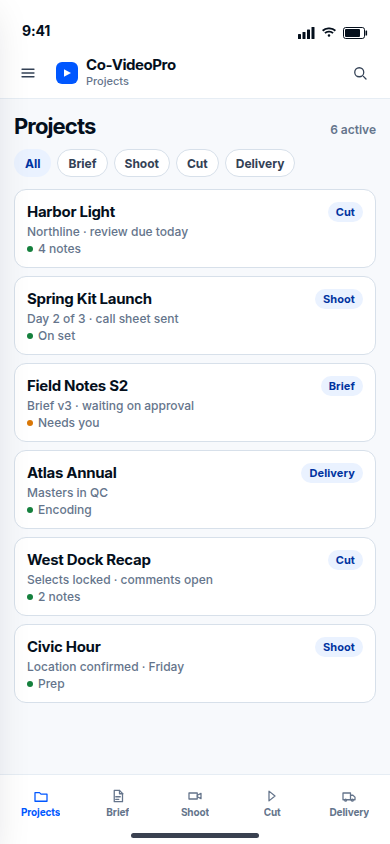
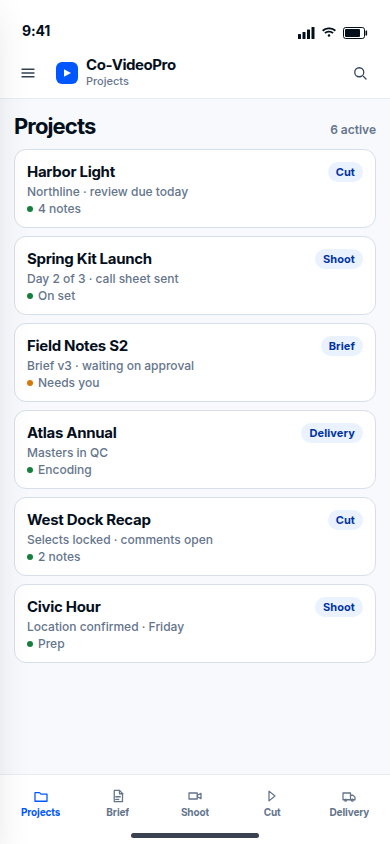
Judge the nav against Bailey's production OS intent.
Reject stage-tab inboxes and a comment dock under the film. Keep the live player overlay, hide the phone rail on the film, and leave the master unlanded.

diff --git a/mocks/cvp-phone-nav-grok47/master-phone-player.html b/mocks/cvp-phone-nav-grok47/master-phone-player.html
@@ -17,15 +17,12 @@
         <div class="film-top">
           <button type="button" aria-label="Back to Harbor Light Cut">‹ Harbor Light · Cut</button>
         </div>
-        <div class="stage-fill" role="img" aria-label="Review frame">
-          <span class="tap">Tap the frame to comment · 00:12</span>
-        </div>
-        <div class="transport" aria-label="Player">
-          <button class="play" type="button" aria-label="Play">
-            <svg width="11" height="11" viewBox="0 0 12 12"><path d="M3 1.6 10.2 6 3 10.4z" fill="#fff"/></svg>
-          </button>
-          <span class="track" aria-hidden="true"><i></i></span>
-          <span>00:12 / 02:40</span>
+        <div class="stage-fill" role="img" aria-label="Live thin player, unchanged">
+          <span class="tap">Live thin overlay stays. Tap the frame.</span>
+          <div class="comment-dialog" role="dialog" aria-label="Comment at the playhead">
+            <strong>00:12</strong>
+            <span>Comment at the playhead. No dock under the film.</span>
+          </div>
         </div>
       </div>
     </article>

diff --git a/mocks/cvp-phone-nav-grok47/master-phone-projects.html b/mocks/cvp-phone-nav-grok47/master-phone-projects.html
@@ -9,15 +9,5 @@
 <body class="shot">
   <main class="stage"><div data-phone="closed"></div></main>
   <script src="./phone.js"></script>
-  <script>
-    const list = document.querySelector(".list");
-    const head = list.querySelector(".list-head");
-    const chips = document.createElement("div");
-    chips.className = "chips";
-    chips.setAttribute("aria-label", "Filter projects by stage");
-    chips.innerHTML = ["All","Brief","Shoot","Cut","Delivery"].map((name, i) =>
-      `<button type="button" ${i === 0 ? 'aria-pressed="true"' : 'aria-pressed="false"'}>${name}</button>`).join("");
-    head.after(chips);
-  </script>
 </body>
 </html>

diff --git a/mocks/cvp-phone-nav-grok47/master.css b/mocks/cvp-phone-nav-grok47/master.css
@@ -72,6 +72,34 @@
   font-weight: 600;
 }
 
+.film { grid-template-rows: 47px 48px 1fr; }
+
+.comment-dialog {
+  position: absolute;
+  left: 16px;
+  top: 18px;
+  width: min(240px, 70%);
+  padding: 10px 12px;
+  border-radius: 10px;
+  background: #fff;
+  color: var(--ink);
+  box-shadow: 0 8px 24px rgb(4 15 28 / 0.28);
+}
+
+.comment-dialog strong {
+  display: block;
+  color: var(--blue);
+  font-size: 12px;
+}
+
+.comment-dialog span {
+  display: block;
+  margin-top: 2px;
+  color: var(--soft);
+  font-size: 12px;
+  line-height: 1.35;
+}
+
 .transport {
   display: flex;
   align-items: center;

diff --git a/mocks/cvp-phone-nav-grok47/master-desktop-project.html b/mocks/cvp-phone-nav-grok47/master-desktop-project.html
@@ -9,5 +9,14 @@
 <body class="shot">
   <main class="desk-stage"><div data-desk="project"></div></main>
   <script src="./desktop.js"></script>
+  <script>
+    const player = document.querySelector(".player");
+    if (player) {
+      player.querySelector("b").textContent = "Live thin overlay";
+      player.querySelector("span").textContent = "Unchanged. Dialog at the playhead.";
+    }
+    const under = document.querySelector(".work .panel .notes");
+    if (under) under.remove();
+  </script>
 </body>
 </html>

diff --git a/mocks/cvp-phone-nav-grok47/DEBATE.md b/mocks/cvp-phone-nav-grok47/DEBATE.md
@@ -1,6 +1,17 @@
 # How this nav operates
 
-Looks are second. This is the operating model for the comps in this folder, argued against Fable (`mocks/cvp-phone-nav-fable`, PR 31) and Opus 5.5 (`mocks/cvp-phone-nav-opus55`, PR 30). Peer comps were read from those branches. Nothing here changes the live shell.
+Bailey’s intent is the test. He is a producer who lives on his phone. He wants a quiet production OS: Wistia’s film chrome, Wipster’s tap-to-comment, not a SaaS cockpit. The live thin player overlay stays as it is. Mocks only. Nothing here changes the live shell.
+
+What he is asking the nav to do:
+
+- After login, Projects is the work home. Not a widget dashboard.
+- The phone’s daily path is one bottom rail: Projects plus the pipeline he already tells, Brief → Shoot → Cut → Delivery.
+- Deep tools (Library, Team, Settings, admin) slide in, Claude Code style, and leave. Never a permanent left rail and a bottom bar together.
+- On the film, app chrome gets out of the way. Tap the picture, comment dialog at the playhead. No permanent comment dock under the video.
+- Desktop may keep a thin left tools rail. The pipeline shows inside the project, not as a second copy of the phone bar.
+- A guest on a share link gets the film and comments. Not the team cockpit.
+
+Opus’s `DEBATE.md` (on `mocks/cvp-phone-nav-opus55`) is answered below. Fable still has no `DEBATE.md` on the branch. Fable’s README is what they can be answered on. Looks are not the fight.
 
 The master frames are `master-phone-*.png` and `master-desktop-*.png`. They keep one meaning per control.
 
@@ -109,3 +120,29 @@ Neither peer has a `DEBATE.md` on the branch yet. This answers the operating cla
 **Opus, on the film.** “The bottom rail is hidden” and “no hamburger on the film route” and “the composer owns the bottom edge” are right. Wistia and Wipster carrying no app nav is the reason. Your desktop point stands: the left rail costs width, not the comment thumb, so it can stay. It still must not grow a Reviews item. Guest route: “no rail, no drawer, no team names… brand, project name, film, comments, and Approve.” Accepted. That is stricter than a reviewer who still sees Team, and it is the one to ship.
 
 **Opus, on desktop.** Chips on the hub that are “the same queues as the phone’s stage tabs” duplicate the phone nav if those tabs are queues. If the chips only filter the project list, they match this comp and Fable’s desktop. Stepper under the title, agreed. Drop Reviews from the rail, as you said the master would. Projects as one home control, agreed. Admin is not a daily icon beside Team.
+
+## Reply to Opus’s debate, against Bailey
+
+Opus’s file says Grok never defined a stage tab, drew no chips, and left the rail on the film. That describes the first phone frames, not `DEBATE.md` or `master-phone-player.png`. Read the exchange. The points below use Opus’s own verdicts.
+
+**Stage tabs as cross-project queues fight the pipeline story.** Bailey’s login story is Brief → Shoot → Cut → Delivery for a production, and the thumb rail is tied to that story plus Projects. Opus’s master sends Cut to a queue of every review and Shoot to field-across-jobs, then tells you to change stage with a stepper instead of the rail. The words on the thumb stop being the day he is in. “What’s in Cut across the company” is already visible on the Projects list, because each row names its stage. The Cut tab opens that job’s cut. Header says the job. With no job open, the tab returns to Projects. It does not become an inbox.
+
+**A composer parked on the bottom edge fights Wipster.** Hiding the app rail on the film is right, and Opus drew that. Putting “the composer on the bottom edge” puts back the permanent comment section Bailey said to kill. The live thin overlay stays. The comment is a dialog on the frame at the playhead. There is no dock under the picture, and there is no new player chrome in this comp.
+
+**Edge swipe fights the film.** Fable’s open and Opus’s back-swipe both use the gesture that scrubs and places a comment. The drawer opens from the header. You leave the film with the back chevron.
+
+**Archive under Library is a fair correction.** Opus is right that Archive and Trash are for people who can read projects, not only owners. They sit in the drawer under Library. Admin stays owner tools (billing, API, audit). They do not become rail items. Leads do not take a rail slot. The rail is the pipeline. Recents may sit at the top of the drawer as a way back to a job, which is the Claude behavior he asked for. They are not a second Projects tab, and they do not repeat Review links.
+
+**Phone stage chips that repeat the rail are noise.** Opus is right that a second set of stage controls on the same phone screen is two verbs for one word. The master phone list does not add Brief/Shoot/Cut/Delivery chips beside the rail. The row already says the stage. Desktop can filter the hub with those words because the desktop rail is tools, not the pipeline.
+
+**Guest.** Opus’s guest surface is the one Bailey described: brand, project, film, comments, Approve. No rail, no drawer, no team. Agreed. A workspace reviewer is not that guest.
+
+**Desktop.** Thin tools rail, no bottom bar, stepper inside the project, rail stays because it does not cover the comment thumb. No Reviews item. The player overlay is not redrawn. Theater mode is optional later. It is not required to satisfy him.
+
+**Icons, badges, card trivia.** Sapphire for a count that is actually waiting on you, red only for health. Fine. Scissors versus a play glyph does not change the route. Do not let that outrank the queue-versus-pipeline fight.
+
+## Master that survives
+
+Phone, one system: Projects list after login, bottom rail of five, drawer for Library (including Archive and Trash), Team, Settings, Admin, and Recents. Film route hides that rail and does not add a comment dock. Desktop, one system: thin Library / Team / Settings rail, pipeline steps inside the open project, same guest rule, same untouched player.
+
+Still his to pick. Not landed in the live shell.
